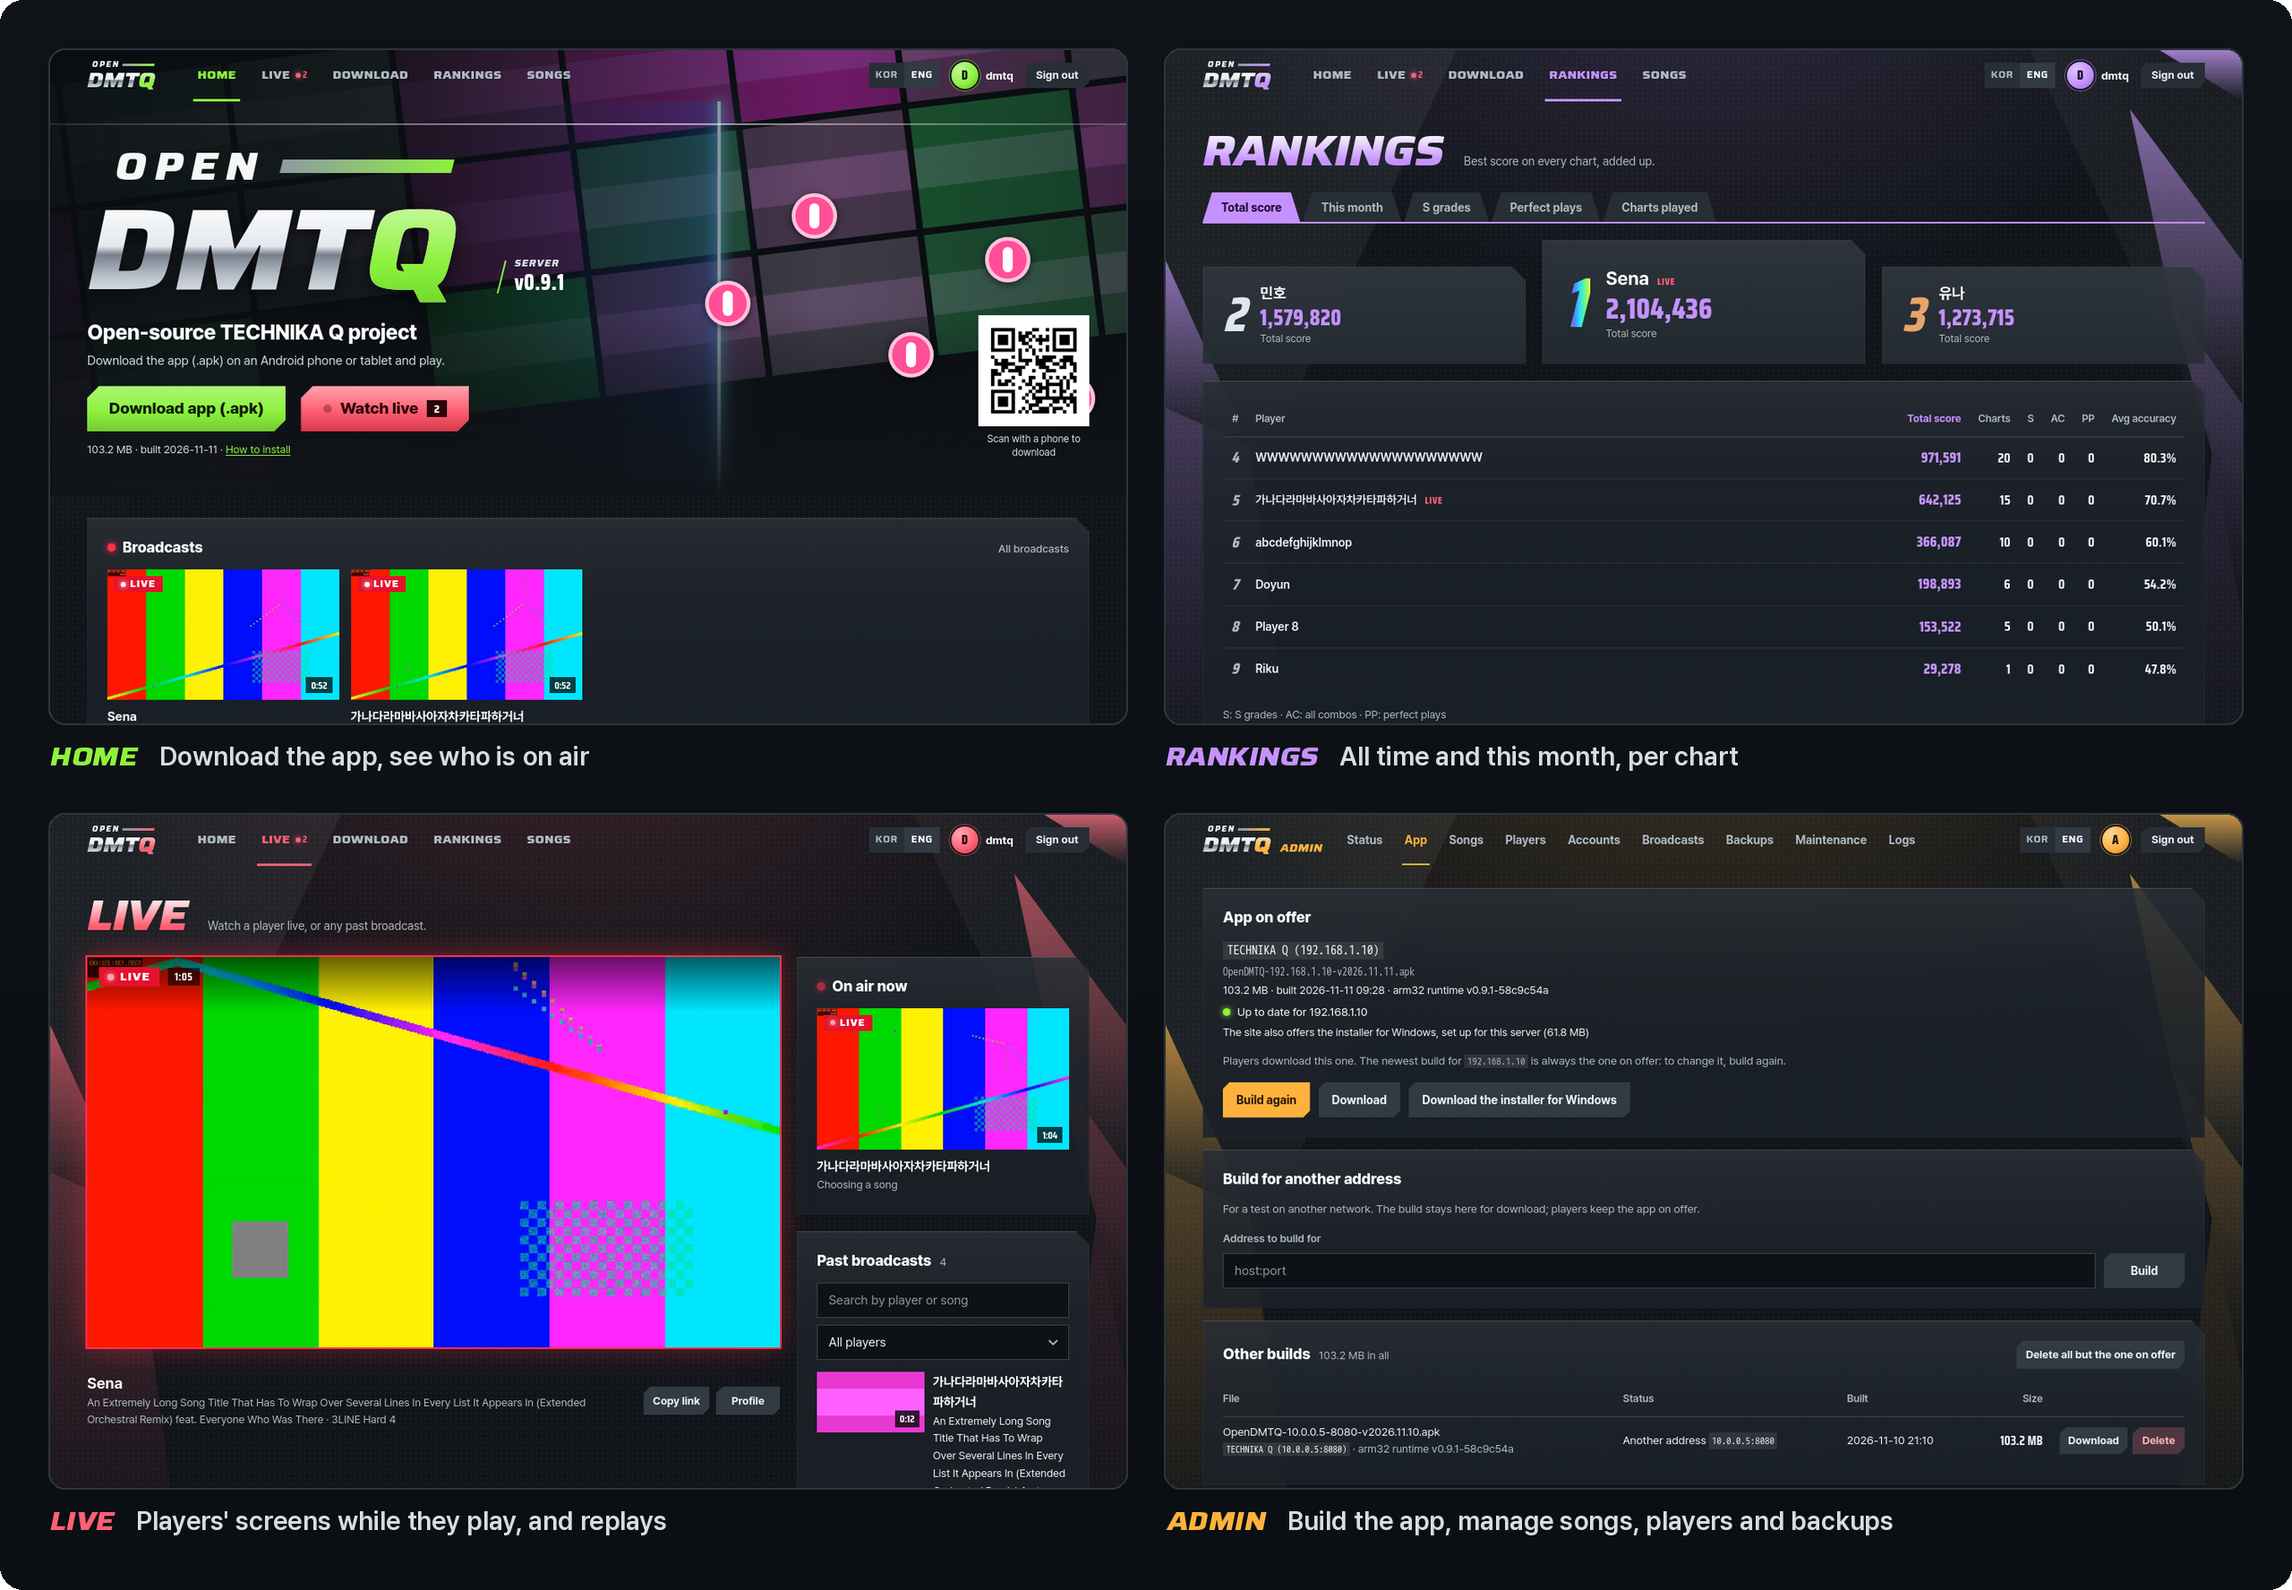
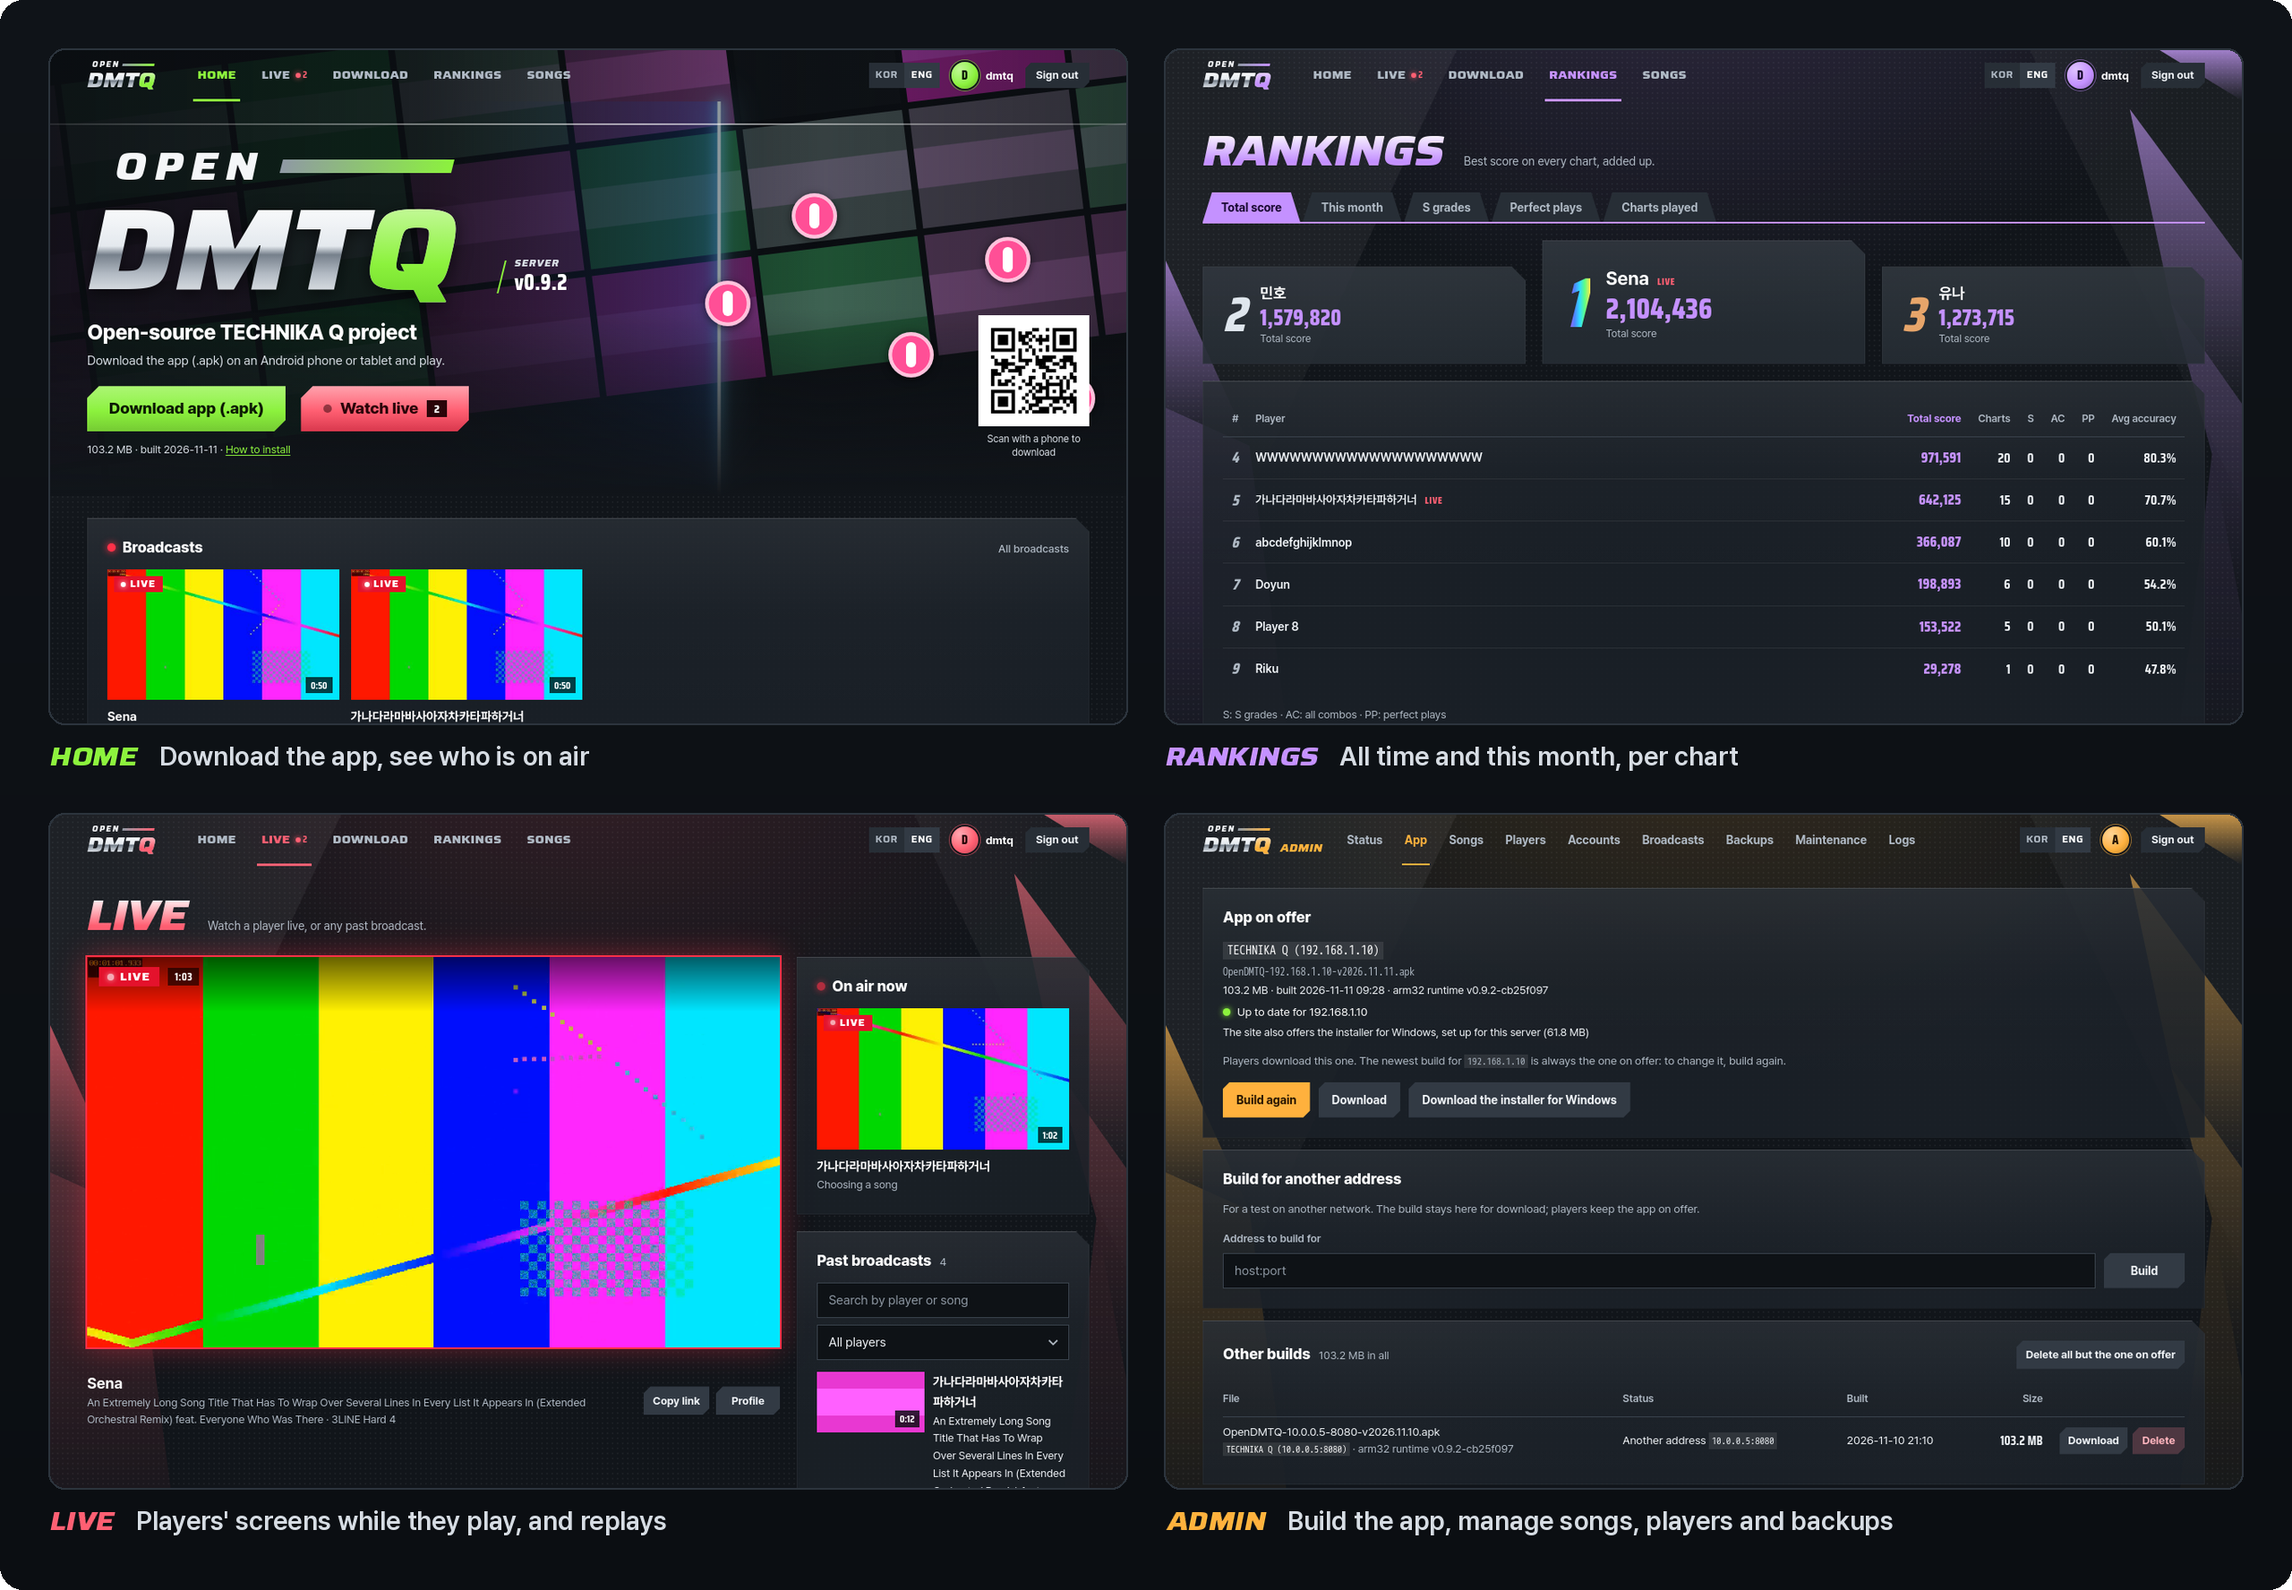
Docs: the checks chart counts 0.9.2's checks (2,085), and the App page and the README's pages show 0.9.2's build

diff --git a/CONTRIBUTING.md b/CONTRIBUTING.md
@@ -85,7 +85,7 @@ coreutils`). The first run builds both images and pulls a headless Chromium and 
 ## Run the tests
 
 <p align="center">
-  <img src="docs/images/chart-checks.svg" alt="2072 automated checks: Tools and admin pages (unit) 658; The server on the real game files 330; Command line and repository (unit) 227; All pages in a real browser 189; An upgrade from the last release 178; The PC client (unit) 160; Host install on a clean system 130; Windows bundle under Wine 115; The game server's contract 85" width="100%">
+  <img src="docs/images/chart-checks.svg" alt="2085 automated checks: Tools and admin pages (unit) 658; The server on the real game files 330; Command line and repository (unit) 227; All pages in a real browser 189; An upgrade from the last release 178; The PC client (unit) 173; Host install on a clean system 130; Windows bundle under Wine 115; The game server's contract 85" width="100%">
 </p>
 
 You do not have to run them all: pick the line for what you changed, and CI runs the rest on your pull request.
